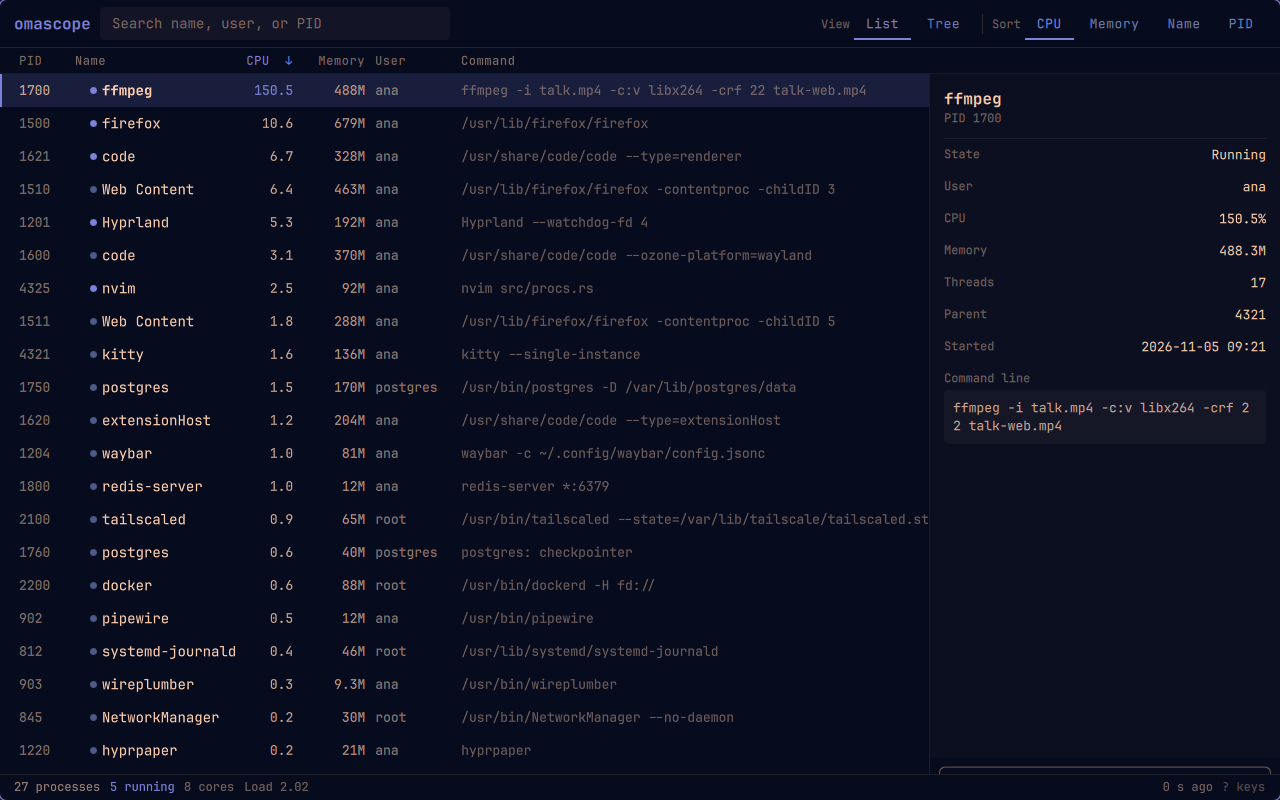
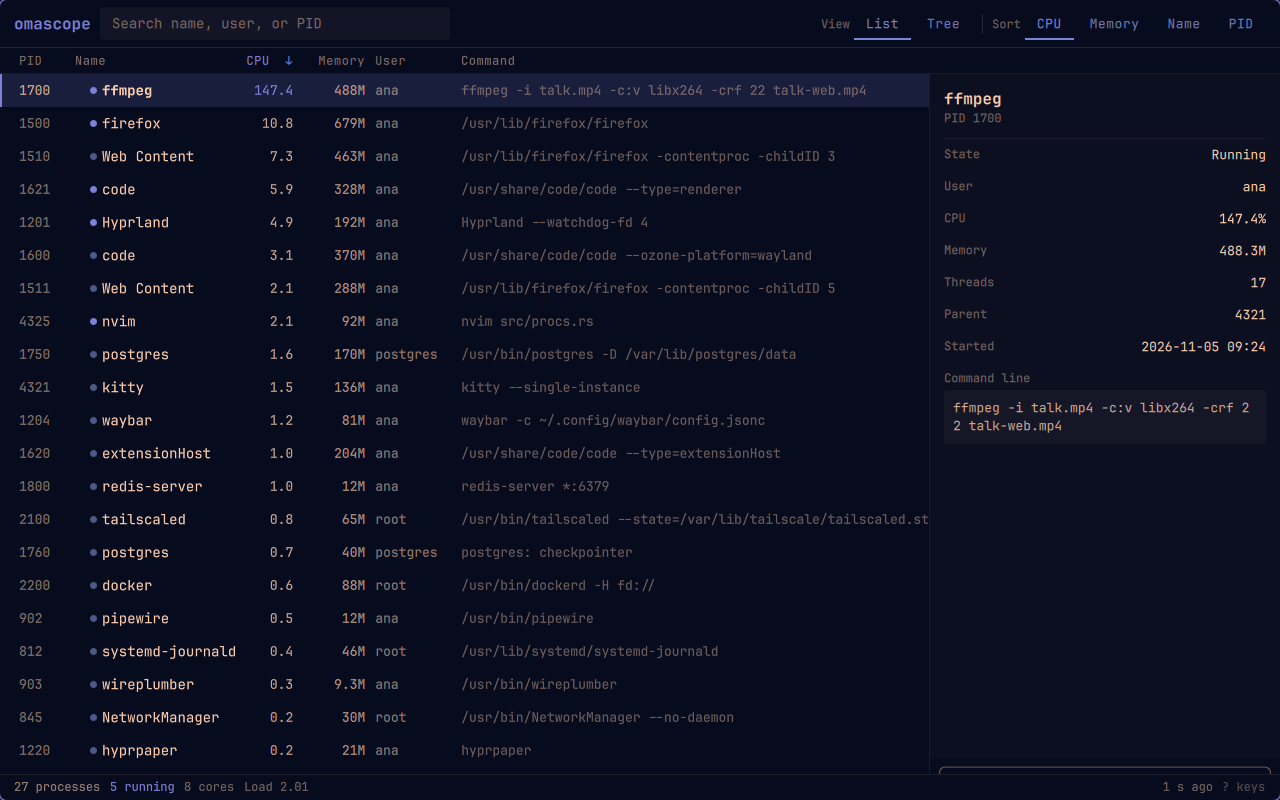
Follow the language, guard init, and reveal the selection

diff --git a/ui/shell.qml b/ui/shell.qml
@@ -192,11 +192,18 @@ FloatingWindow {
             sortAscending = key === "name" || key === "pid"
         }
         rebuild()
+        revealSelection()
     }
 
     function setTree(tree) {
         treeView = tree
         rebuild()
+        revealSelection()
+    }
+
+    function revealSelection() {
+        var index = indexOfPid(rows, selectedPid)
+        if (index >= 0) processList.positionViewAtIndex(index, ListView.Contain)
     }
 
     function selectAt(index) {
@@ -219,6 +226,7 @@ FloatingWindow {
         else next[pid] = true
         folded = next
         rebuild()
+        revealSelection()
     }
 
     function foldSelected(open) {

diff --git a/README.md b/README.md
@@ -34,7 +34,8 @@ bin/install
 
 That builds the binary, makes the package with `makepkg`, and installs it, so
 omascope appears in the launcher (`Super + Space`). Run it again after a change
-you want to see there.
+you want to see there. If `cargo` comes from rustup rather than pacman, the
+script skips makepkg's makedepends check and says so.
 
 To try it without installing a package:
 
